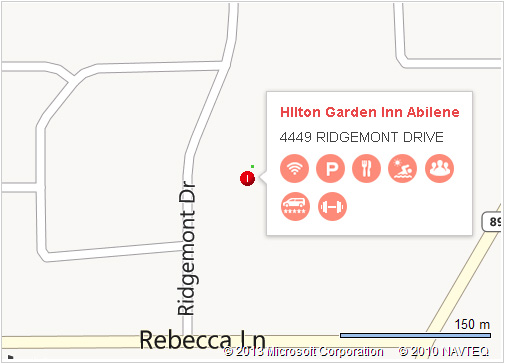
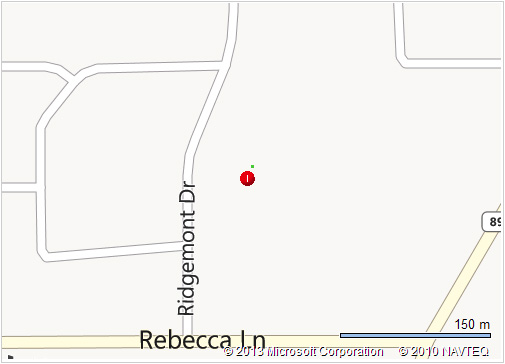
修改 采购商 酒店 详情页 地图 标题

Changed region(s): [[0.505, 0.2418, 0.9505, 0.6648], [0.5644, 0.3626, 0.8911, 0.3929]]

diff --git a/static/css/store_hotel.css b/static/css/store_hotel.css
@@ -487,7 +487,7 @@ table{width:100%}
 .icon-list {
 	overflow: hidden;
 }
-.icon-list span {
+.icon-list span, .innerIcon span {
 	float: left;
 	width: 29px;
 	height: 29px;
@@ -495,46 +495,51 @@ table{width:100%}
 	background: url(../images/store/hotel_eauipment-icon.png) no-repeat;
 	cursor: pointer;
 }
-.icon-list .ico-wifi {
+.innerIcon span {
+    margin-right: 5px;
+    margin-top:5px;
+    
+}
+.icon-list .ico-wifi, .innerIcon .ico-wifi {
 	background-position: 0 0;
 }
-.icon-list .ico-free-wifi {
+.icon-list .ico-free-wifi, .innerIcon .ico-free-wifi {
 	background-position: 0 -30px;
 }
-.icon-list .ico-broadband {
+.icon-list .ico-broadband, .innerIcon .ico-broadband {
 	background-position: 0 -60px;
 }
-.icon-list .ico-free-broadband {
+.icon-list .ico-free-broadband, .innerIcon .ico-free-broadband{
 	background-position: 0 -90px;
 }
-.icon-list .ico-park {
+.icon-list .ico-park, .innerIcon .ico-park {
 	background-position: 0 -120px;
 }
-.icon-list .ico-free-park {
+.icon-list .ico-free-park, .innerIcon .ico-free-park{
 	background-position: 0 -150px;
 }
-.icon-list .ico-gym {
+.icon-list .ico-gym, .innerIcon .ico-gym {
 	background-position: 0 -180px;
 }
-.icon-list .ico-restaurant {
+.icon-list .ico-restaurant, .innerIcon .ico-restaurant {
 	background-position: 0 -210px;
 }
-.icon-list .ico-indoorswim {
+.icon-list .ico-indoorswim, .innerIcon .ico-indoorswim {
 	background-position: 0 -240px;
 }
-.icon-list .ico-outdoorswim {
+.icon-list .ico-outdoorswim, .innerIcon .ico-outdoorswim {
 	background-position: 0 -270px;
 }
-.icon-list .ico-business {
+.icon-list .ico-business, .innerIcon .ico-business {
 	background-position: 0 -300px;
 }
-.icon-list .ico-meeting {
+.icon-list .ico-meeting, .innerIcon .ico-meeting {
 	background-position: 0 -330px;
 }
-.icon-list .ico-pickup {
+.icon-list .ico-pickup, .innerIcon .ico-pickup {
 	background-position: 0 -360px;
 }
-.icon-list .ico-free-pickup {
+.icon-list .ico-free-pickup, .innerIcon .ico-free-pickup {
 	background-position: 0 -390px;
 }
 /*酒店设施 结束*/
@@ -840,6 +845,35 @@ table{width:100%}
 .abroadhotelEquipment .abroadMapText {
 	float:left;
 	max-width:422px;
+}
+/*国际酒店详情 地图*/
+.hotelMap_tips {
+     border:1px solid #ccc9ca;
+     background: #fff;
+     padding: 10px;
+     position: absolute;
+     top:140px;
+     right:35px;
+     width:180px
+ }
+.hotelMap_tips i {
+    background: url(../images/store/arrow_map.jpg) no-repeat 0 0;
+    width:9px;
+    height: 15px;
+    display: inline-block;
+    position: absolute;
+    top:30px;
+    left: -9px;
+}
+.hotelMap_tips .innerTit {
+    font-size: 14px;
+    line-height: 25px;
+}
+.hotelMap_tips .innerTit span {
+    color: #e94749;
+}
+.hotelInfo_tips .innerIcon {
+    height: auto;
 }
 
 /*酒店图片弹窗*/

diff --git a/采购商/酒店/国际酒店详情页.html b/采购商/酒店/国际酒店详情页.html
@@ -350,13 +350,7 @@
 		 <div class="hotel-info-item">
 		    <a name="introduce"></a>
 			<ul class="changeList clearfix">
-			    <li><a href="#"><i></i>酒店图片</a></li>
-				<li class="liLine"></li>
-				<li><a href="#house_type"><i></i>房型预定</a></li>
-				<li class="liLine"></li>
-				<li><a href="#introduce" class="currentLi"><i></i>酒店介绍</a></li>
-				<li class="liLine"></li>
-				<li><a href="#facility"><i></i>位置交通</a></li>
+				<li style="padding-left: 20px;">酒店介绍</li>
 			 </ul>
 			<div class="abroadhotelIntroduce">
 			  <h5>餐厅</h5>
@@ -398,17 +392,28 @@
 		 <div class="hotel-info-item">
 		    <a name="facility"></a>
 		     <ul class="changeList clearfix">
-			    <li><a href="#"><i></i>酒店图片</a></li>
-				<li class="liLine"></li>
-				<li><a href="#house_type"><i></i>房型预定</a></li>
-				<li class="liLine"></li>
-				<li><a href="#introduce"><i></i>酒店介绍</a></li>
-				<li class="liLine"></li>
-				<li><a href="#facility" class="currentLi"><i></i>位置交通</a></li>
+				<li style="padding-left: 20px;">位置交通</li>
 		     </ul>
 			<div class="abroadhotelEquipment">
-			   <div class="hotelMap">
+			   <div class="hotelMap" style="position: relative;">
 		        <img src="../../static/images/store/abroadhotelMap.jpg" alt="地图" />
+                <div class="hotelMap_tips">
+                    <i></i>
+                   <div class="innerTit"><span>HIlton Garden Inn Abilene</span>
+                       4449 RIDGEMONT DRIVE</div> 
+                   <div class="innerIcon">
+                       <span class="ico-wifi" title="收费wifi"></span>
+                       <span class="ico-park" title="停车场"></span>
+                       <span class="ico-restaurant" title="餐厅"></span>
+                       <span class="ico-outdoorswim" title="室外泳池"></span>
+                       <span class="ico-pickup" title="接机服务"></span>
+                       <span class="ico-wifi" title="收费wifi"></span>
+                       <span class="ico-park" title="停车场"></span>
+                       <span class="ico-restaurant" title="餐厅"></span>
+                       <span class="ico-outdoorswim" title="室外泳池"></span>
+                       <span class="ico-pickup" title="接机服务"></span>
+                   </div> 
+                </div>
 			   </div>
 			   <div class="abroadMapText">
 			     <h5>地区</h5>

diff --git a/采购商/酒店/酒店详情页（新）.html b/采购商/酒店/酒店详情页（新）.html
@@ -338,13 +338,7 @@
 		 <div class="hotel-info-item">
 		    <a name="introduce"></a>
 			<ul class="changeList clearfix">
-			    <li><a href="#"><i></i>酒店图片</a></li>
-				<li class="liLine"></li>
-				<li><a href="#house_type"><i></i>房型预定</a></li>
-				<li class="liLine"></li>
-				<li><a href="#introduce" class="currentLi"><i></i>酒店介绍</a></li>
-				<li class="liLine"></li>
-				<li><a href="#facility"><i></i>服务设施</a></li>
+				<li style="padding-left: 20px;">酒店介绍</li>
 			 </ul>
 			<div class="hotelIntroduce">
 			  <div class="clearfix">    
@@ -365,13 +359,7 @@
 		 <div class="hotel-info-item">
 		    <a name="facility"></a>
 		     <ul class="changeList clearfix">
-			    <li><a href="#"><i></i>酒店图片</a></li>
-				<li class="liLine"></li>
-				<li><a href="#house_type"><i></i>房型预定</a></li>
-				<li class="liLine"></li>
-				<li><a href="#introduce"><i></i>酒店介绍</a></li>
-				<li class="liLine"></li>
-				<li><a href="#facility" class="currentLi"><i></i>服务设施</a></li>
+				<li style="padding-left: 20px;">服务设施</li>
 		     </ul>
 			<div class="hotelEquipment">
 			   <div class="equipmentItem clearfix">
